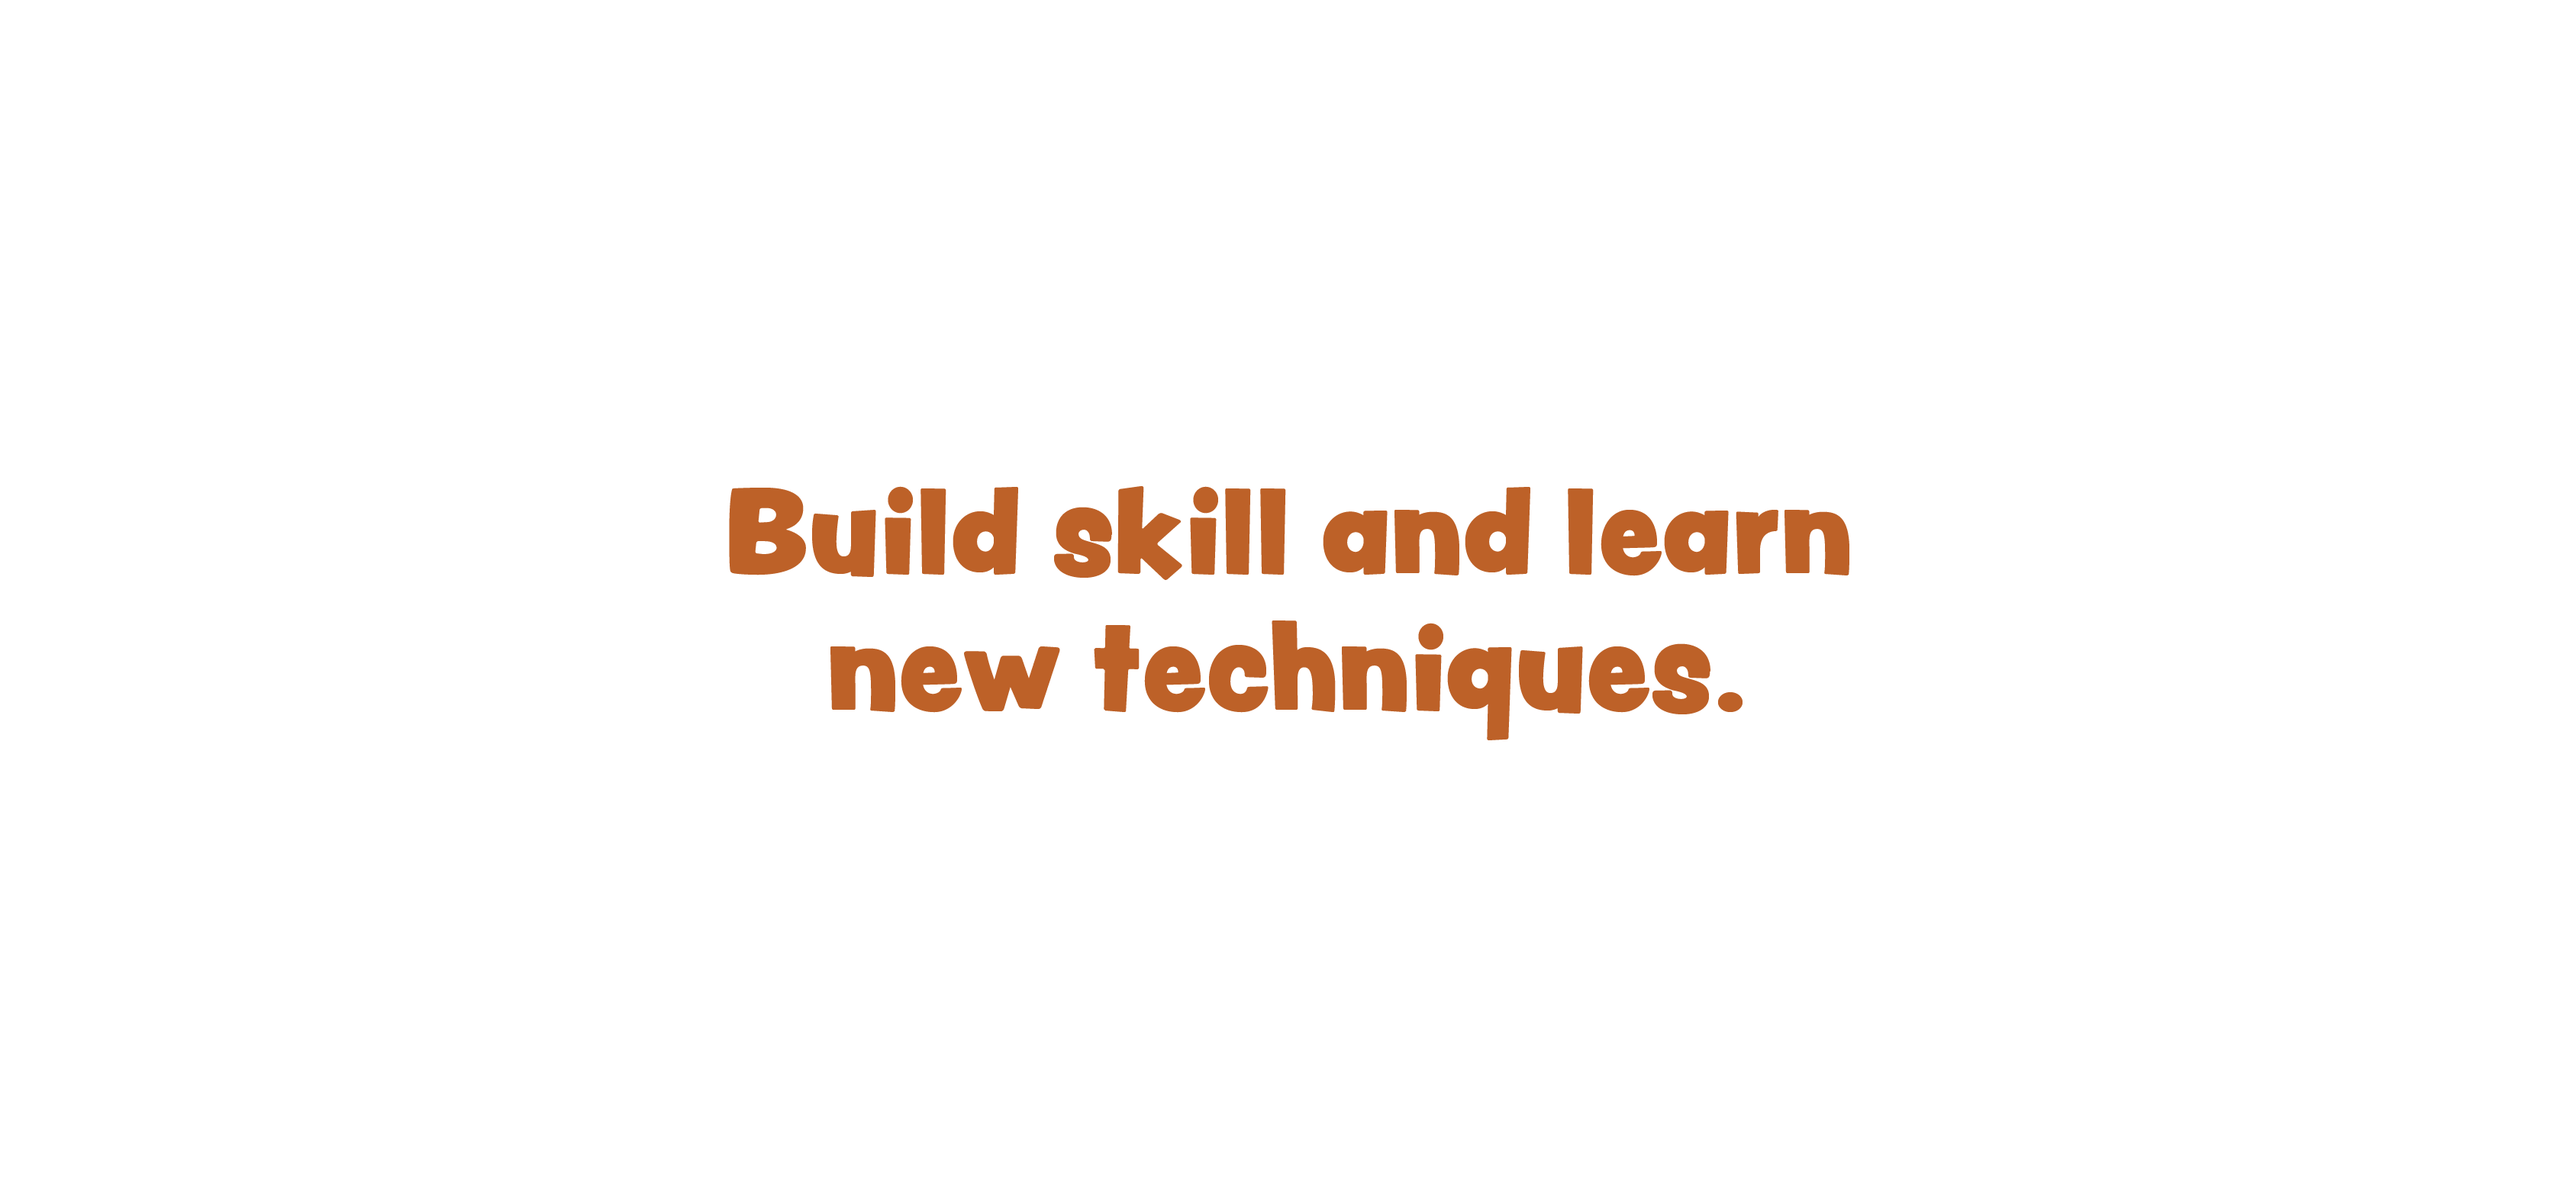
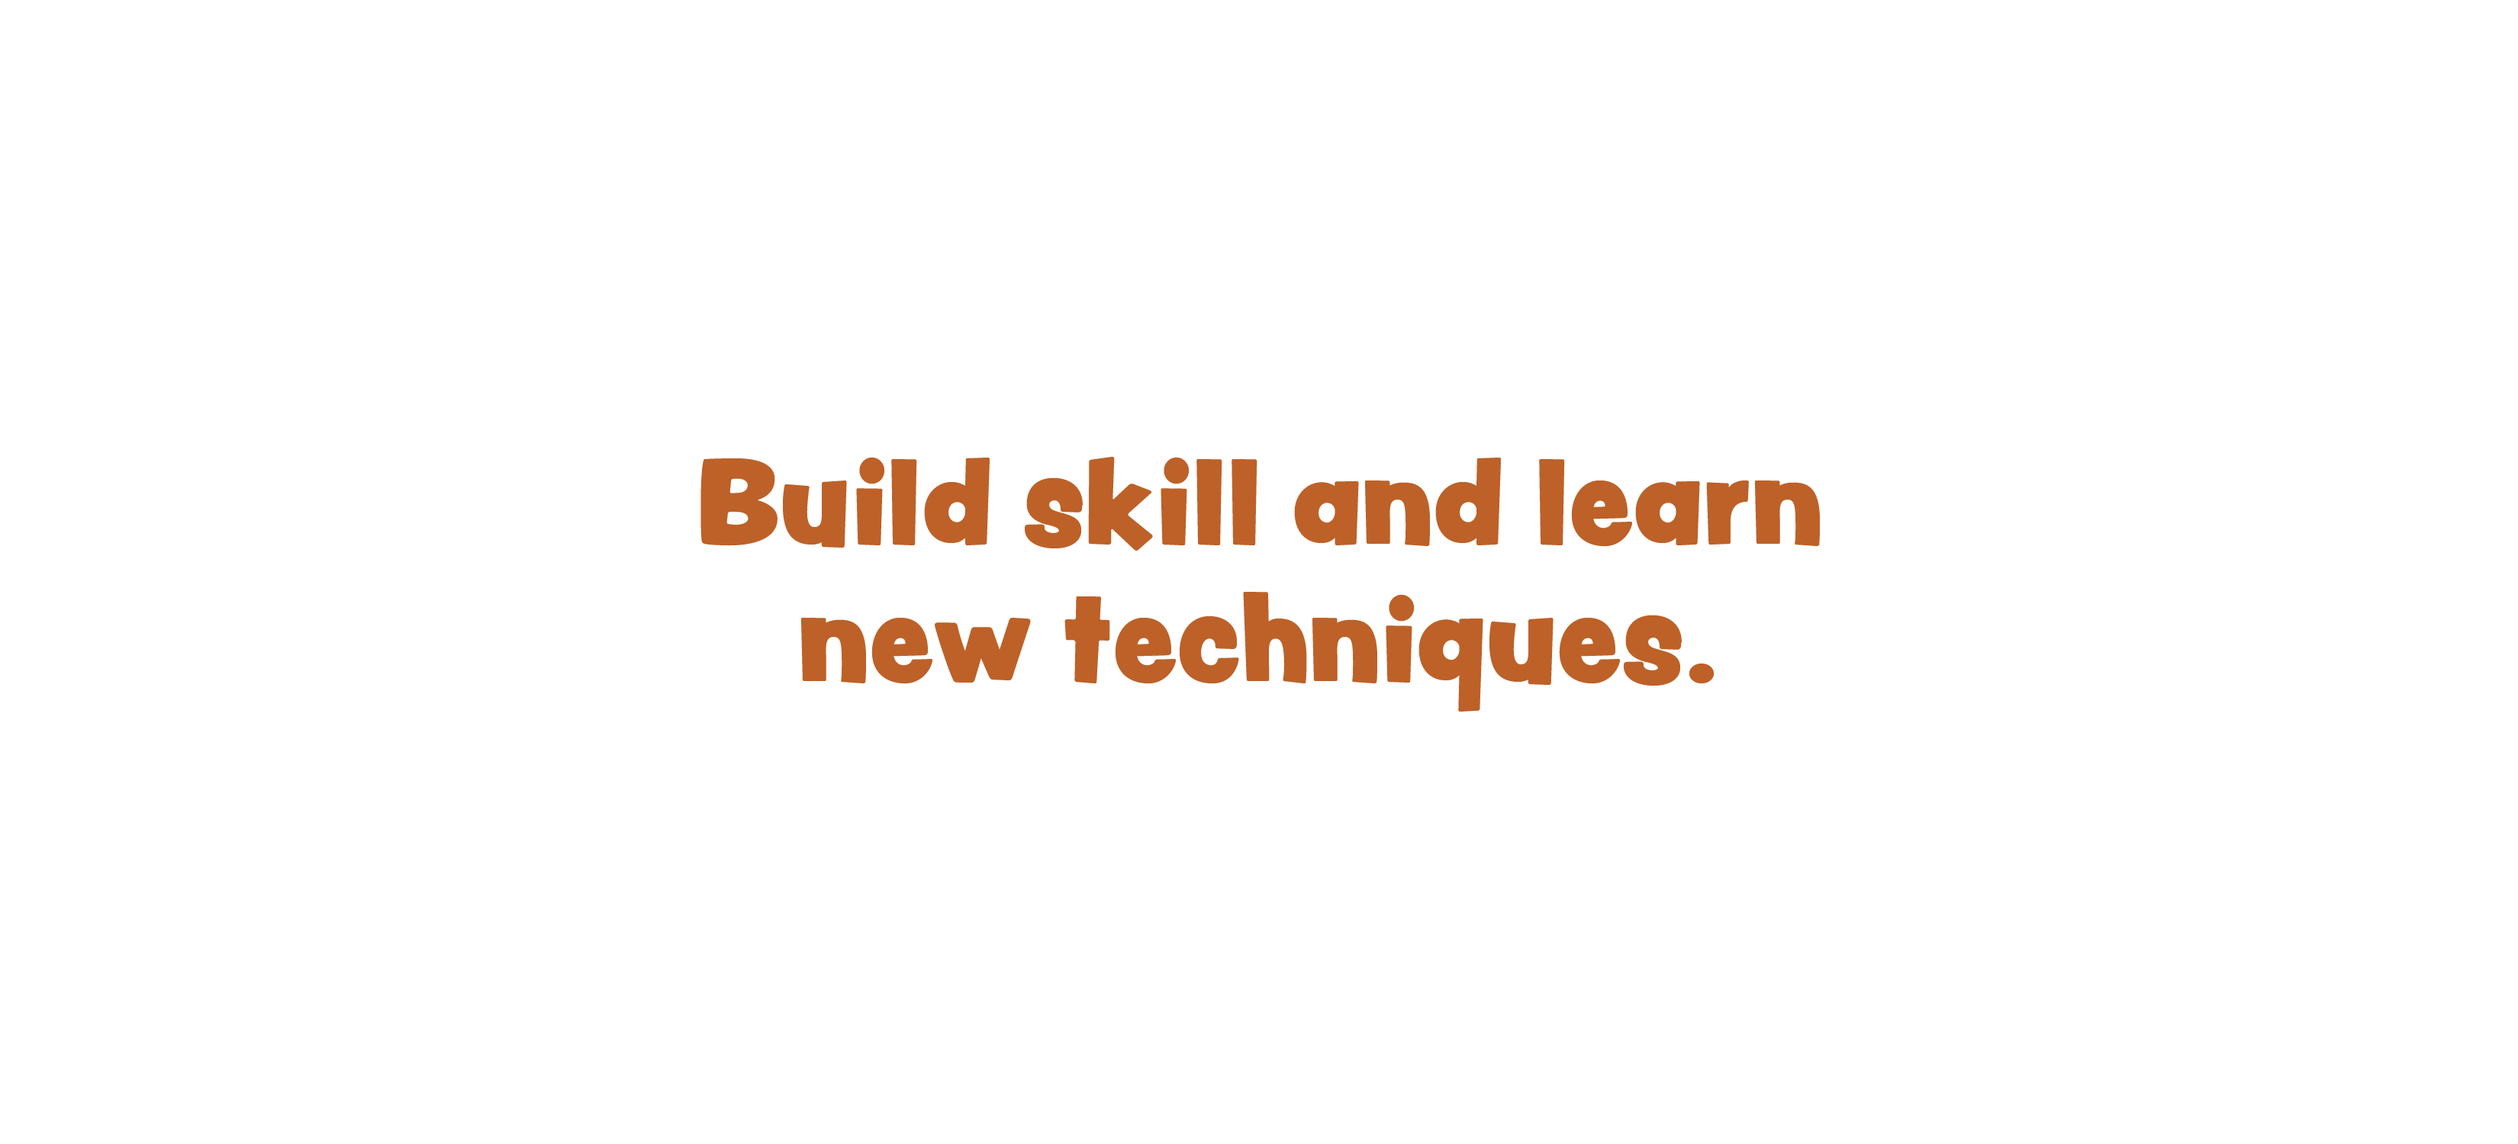
added images and brand_swatch

Changed region(s): [[0.3121, 0.5213, 0.6867, 0.6133], [0.2809, 0.3987, 0.4994, 0.4907], [0.5306, 0.3987, 0.7491, 0.4907]]

diff --git a/kronksubscription.html b/kronksubscription.html
@@ -148,13 +148,11 @@
             </section>
         </section>
         <section id="main">
-            <section class="intro">
-                <img src="images/kronk/box_lifestyle.jpg" alt="Kronk Subscription Box Front">
-            </section>
             <section class="branding">
                 <div id="branding">
                     <img src="images/kronk/logos.png" alt="Logos">
-                    <img src="images/kronk/fonts.png" alt="Fonts">
+                    <img src="images/kronk/brand_swatch.jpg" alt="Brand Swatch">
+                    <img src="images/kronk/fonts.jpg" alt="Fonts">
                     <img src="images/kronk/colors.png" alt="Colors">
                     <img src="images/kronk/patterns.png" alt="Patterns">
                 </div>
@@ -167,7 +165,15 @@
                     <p>Description of audience probably.</p>
                 </div>
             </section>--> <!-- Audience should be introduced as you go. Do more brand applications instead. -->
-            <section class="box">
+            <section class="box-outside">
+                <img src="images/kronk/box_lifestyle.jpg" alt="Kronk Subscription Box Front">
+                <div class="product-grid-split">
+                    <img src="images/kronk/pastry.jpg" class="split-one" alt="Pastry">
+                    <img src="images/kronk/box/side_box_one.jpg" class="split-two" alt="Kronk Box Left Side">
+                    <img src="images/kronk/box/side_box_two.png" alt="Kronk Box Right Side">
+                </div>
+            </section>
+            <section class="box-inside">
                 <section class="text-container">
                     <div id="heading">
                         <h1>A Friendly Message</h1>
@@ -191,12 +197,11 @@
                 <img src="images/kronk/quote.png" alt="Kronk Quote">
             </section>
             <section class="letter">
-                <img src="images/kronk/letter/letter_open.gif" alt="Letter Opening Animation">
-                <div class="product-grid-hero-three">
-                    <img src="images/kronk/letter/letter_group.jpg" class="img-hero" alt="Letter group picture">
-                    <img src="images/kronk/letter/letter_group_1.jpg" class="img-other" alt="Letter group 1">
-                    <img src="images/kronk/letter/letter_group_2.jpg" class="img-detail" alt="Letter group 2">
+                <div class="product-grid-split">
+                    <img src="images/kronk/letter/letter_open.gif" alt="Letter Opening Animation">
+                    <img src="images/kronk/letter/letter_group_2.png" alt="Letter Detail">
                 </div>
+                <img src="images/kronk/letter/letter_group.jpg" class="img-hero" alt="Letter group picture">
             </section>
             <section class="break">
                 <img src="images/kronk/brand_statements.png" alt="Brand statements">
@@ -223,15 +228,22 @@
             <section class="quote">
                 <img src="images/kronk/gain_confidence.png" alt="Gain Confidence statement">
             </section>
-            <section class="product-grid-hero-three">
-                <img src="images/kronk/oven_mitts/oven mitts_hero.jpg" class="img-hero"
-                    alt="Oven Mitts Side View Right">
-                <img src="images/kronk/oven_mitts/oven_mitts.jpg" class="img-other" alt="Oven Mitts Front and Back">
+            <section class="product">
+                <div class="product-grid-hero-three">
+                    <img src="images/kronk/oven_mitts/oven mitts_hero.jpg" class="img-hero"
+                        alt="Oven Mitts Side View Right">
+                    <img src="images/kronk/oven_mitts/oven_mitts_combined.png" class="img-other"
+                        alt="Oven Mitts Front and Back">
+                    <img src="images/kronk/spinach_puffs.jpg" class="img-detail" alt="Spinach Puffs">
+                </div>
                 <img src="images/kronk/oven_mitts/oven_mitts_side_panel_1.jpg" class="img-detail"
                     alt="Oven Mitts Side View Left">
             </section>
             <section class="break">
                 <img src="images/kronk/learn_skills.png" alt="Learn Skills statement">
+            </section>
+            <section class="lifestyle">
+                <img src="images/kronk/pastry_brush/pastry_brush_lifestyle.jpg" alt="Pastry Brush Lifestyle">
             </section>
             <section class="product-grid-hero-three">
                 <img src="images/kronk/pastry_brush/pastry_brush_hero.jpg" class="img-hero"
@@ -256,8 +268,9 @@
             <section class="product-grid-hero-three">
                 <img src="images/kronk/coin/coin_pouch.jpg" class="img-hero" alt="Coin in a Pouch">
                 <!--<img src="images/kronk/coin/coin_both_sides.png" alt="Coin front and back">-->
-                <img src="images/kronk/coin/pouch_front.jpg" class="img-other" alt="Coin Pouch Front">
-                <img src="images/kronk/coin/pouch_back.jpg" class="img-detail" alt="Coin Pouch Back">
+                <img src="images/kronk/coin/pouch_back.jpg" class="img-other" alt="Coin Pouch Back">
+                <img src="images/kronk/coin/coin_both_sides.png" class="img-detail" alt="Coin Pouch Front">
+                <!--<img src="images/kronk/coin/combined.jpg" class="img-other" alt="combined">-->
             </section>
 
             <!--<section class="social media">
@@ -267,12 +280,7 @@
                     <img src="#" alt="Billboard Mockup">
                 </section>-->
             <section class="text-container">
-                <h2>Thank You For Viewing My Project,
-                    <br>My Project for Kronk's Kitchen Collection,
-                    <br>The Project Specially Made for Kronk's Kitchen Collection,
-                    <br>Kronk's Kitchen Collection Project . . .
-                    <br>That Project.<br><br>Thank you!
-                </h2>
+                <h2>Thank You!</h2>
             </section>
             <!--
             <section class="process">
